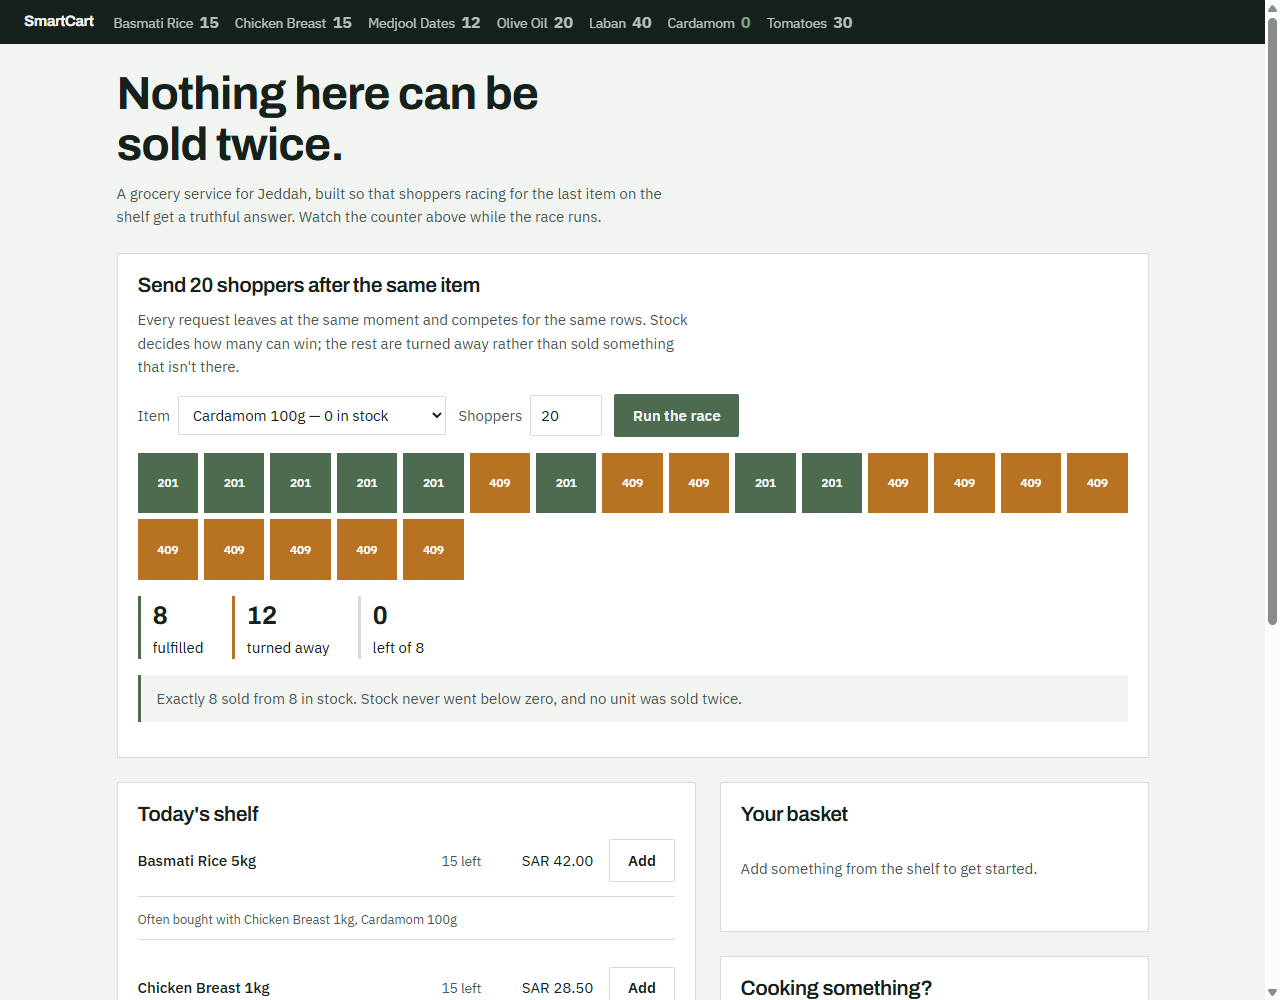
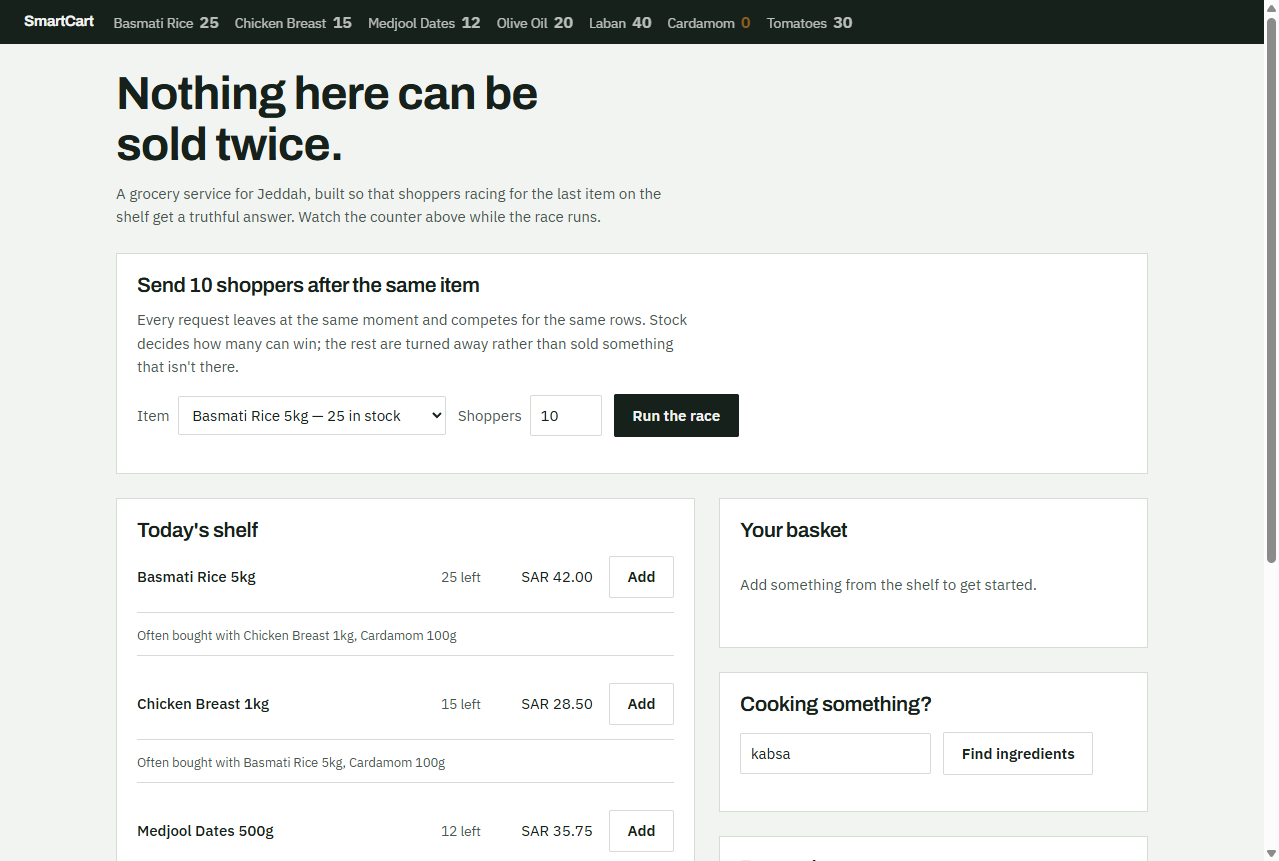
Deploy to AWS and record the cross-host concurrency result
Live at the ALB in ap-south-1: two Fargate tasks in separate
availability zones, one RDS instance, ElastiCache Serverless for the rate
limiter.

The concurrency proof now runs against real infrastructure rather than a
single process. 20 concurrent checkouts against 8 units gave 8 fulfilled,
12 refused, stock of exactly 0 -- with requests spread across both tasks.
The README previously argued the invariant would hold across hosts
because it lives in Postgres rather than in process memory; that is now
demonstrated instead of asserted.

Verified through the load balancer: caching headers survive the hop, an
If-None-Match request returns 304, and carts come back no-store.

diff --git a/README.md b/README.md
@@ -8,6 +8,12 @@ Everything else exists to make that problem real. The catalog, the cart and the
 order records are the smallest surface that lets two shoppers race for the same
 tin of cardamom.
 
+**Running at
+<http://smartcart-demo-851659227.ap-south-1.elb.amazonaws.com>** — two Fargate
+tasks in separate availability zones, behind an ALB, sharing one RDS instance.
+
+![SmartCart](screenshot.png)
+
 ## Running it
 
 ```bash
